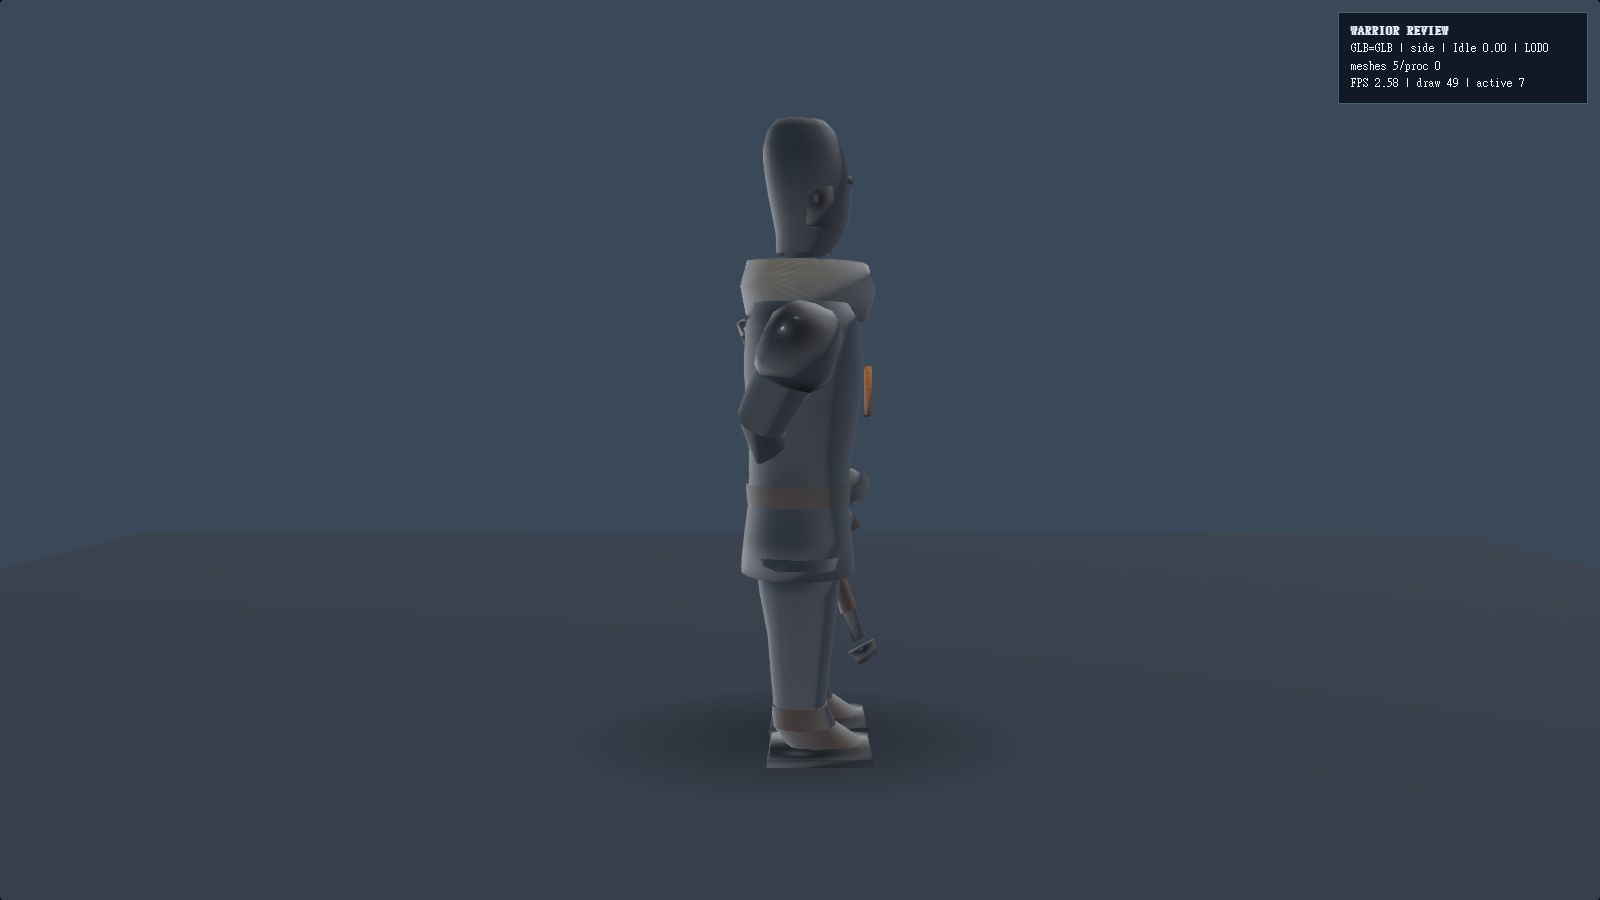
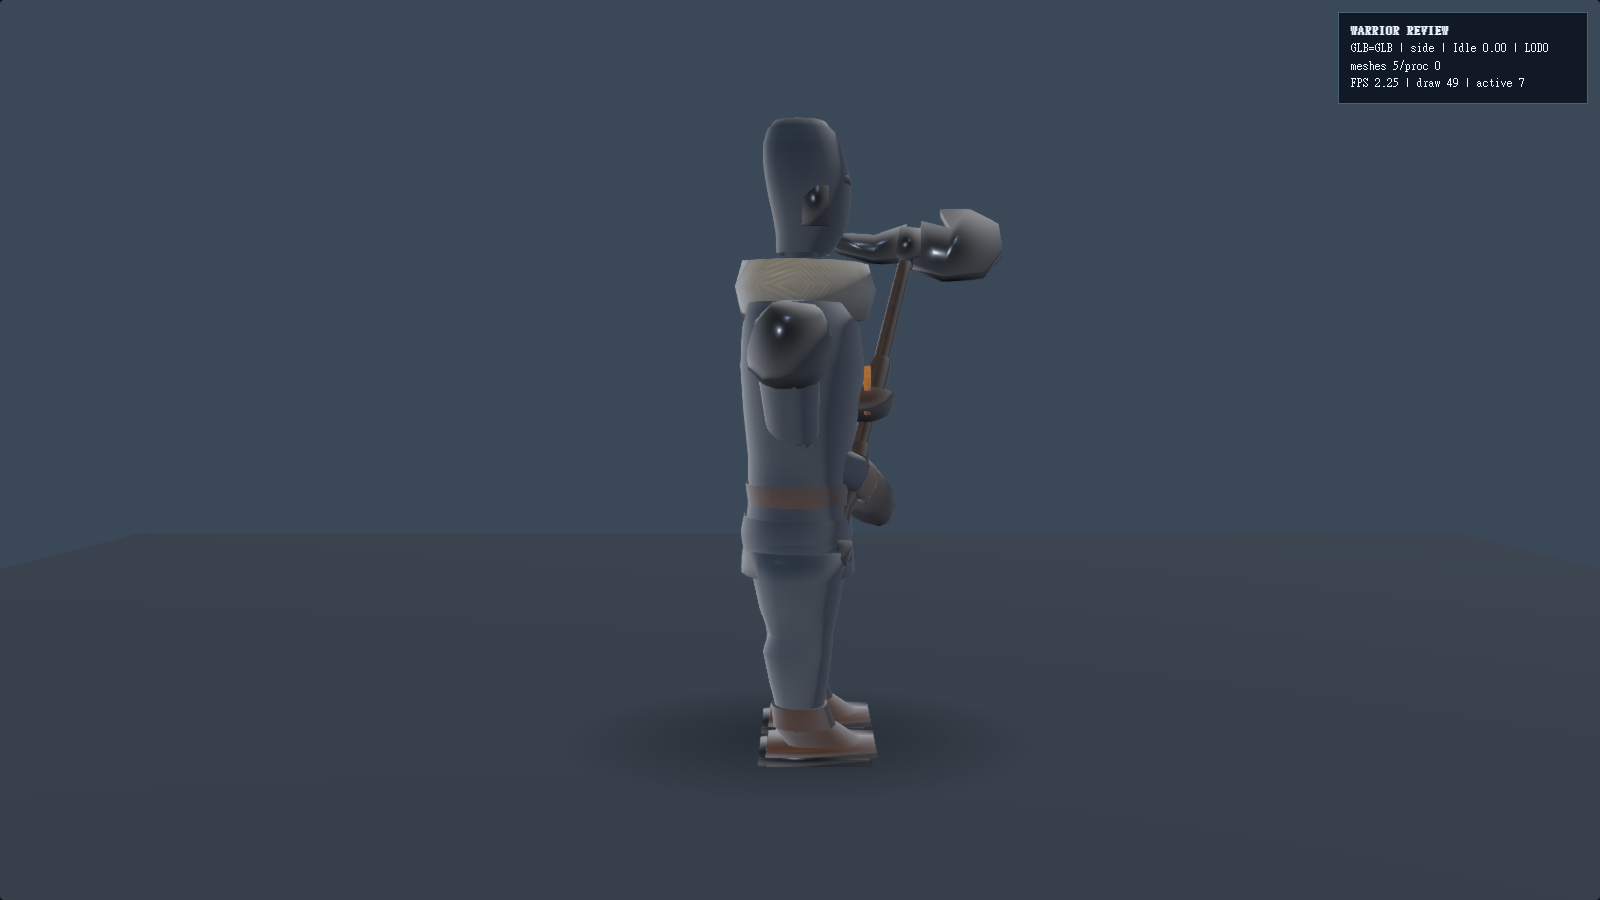
test(warrior): assert the grip at real locators, not a bounding box
The old two-hand assertion measured each hand to the axe's bounding-box
*centre* with a 1.5m envelope. That is not a grip test: a bounding-box
centre cannot express 'is the hand on the handle', so it passed while
the left arm was flung out to the side 1.41m off the haft. No threshold
on that metric would have caught it.

The GLB now exports upper_grip, lower_grip and axe_tip as locator nodes
bone-parented to hand.R, so they travel with the rigid weapon:

- hand.R -> upper_grip < 0.005m. This is a rigidity check, not a pose
  check: the upper grip is authored to coincide with hand.R's bind
  position and the axe is skinned 100% to that bone, so drift here means
  the weapon stopped being rigid.
- hand.L -> lower_grip < 0.12m for every required clip. This is the
  assertion that carries information about the pose. Death is exempt
  past normalized 0.4, where it deliberately releases the haft.
- grip spacing held to 0.37-0.42m through the swing, which is what
  proves the haft is rigid rather than the two locators drifting apart.
- swing arc measured at axe_tip -- the part that actually lands -- and
  required to exceed 1.5m. Authored key-to-key travel is 2.4m.

The locators are also required nodes in validate-warrior-production.mjs
and AssetManifest, and the validator additionally checks each one is
parented to hand.R: a locator on the wrong bone describes a weapon that
is not the one being rendered, which would silently invalidate every
measurement taken against it.
[…]

diff --git a/tests/warrior-runtime.spec.ts b/tests/warrior-runtime.spec.ts
@@ -8,6 +8,9 @@ type Lod = 0 | 1 | 2;
 type BoneTransform = { position: [number, number, number]; rotation: [number, number, number, number] };
 interface WeaponTransform {
   socket: BoneTransform | null;
+  upperGrip: [number, number, number] | null;
+  lowerGrip: [number, number, number] | null;
+  axeTip: [number, number, number] | null;
   axeWorldCenter: [number, number, number] | null;
   axeWorldExtents: [number, number, number] | null;
   handContactL: number | null;
@@ -197,23 +200,63 @@ test("verifies Warrior GLB review mode and normalized animation evidence", async
   );
   expect(swingArmDelta, "the swinging arm (upper_arm.R/lower_arm.R) must rotate visibly across the MeleeAttack swing").toBeGreaterThan(0.01);
 
-  // Hand-to-handle contact: both hands must stay within a generous grip
-  // envelope of the axe's (skeleton-applied) bounding-box centre. This is a
-  // coarse proxy -- the axe mesh has no separate upper/lower grip locator yet
-  // (that is Warrior-W2 asset work, tracked separately) -- not a precise
-  // per-grip measurement.
-  const HAND_CONTACT_LIMIT = 1.5;
+  // --- two-hand grip, measured at the real grip points -------------------
+  // Distances are hand bone -> the `lower_grip` / `upper_grip` locator nodes
+  // the GLB exports bone-parented to hand.R. The earlier version measured to
+  // the axe's bounding-box *centre* with a 1.5m envelope, which is why it
+  // passed while the left arm was flung out to the side, a full 1.4m off the
+  // haft and plainly wrong on screen. A bounding-box centre cannot express
+  // "is the hand on the handle", so no threshold on it would have helped.
+  //
+  // hand.R is a rigidity check, not a pose check: the upper grip is authored
+  // to coincide with hand.R's bind position and the whole axe is skinned
+  // 100% to that bone, so any drift means the weapon stopped being rigid.
+  const RIGID_TOLERANCE = 0.005;
+  // hand.L is the real pose assertion. Keys solve to 0; the allowance covers
+  // interpolation between keyframes (worst observed mid-key error 0.032m).
+  const GRIP_TOLERANCE = 0.12;
+  // Death deliberately releases the haft as the body collapses, so only the
+  // part of that clip before the fall is required to hold the grip.
+  const gripHeld = (animation: Animation, normalized: number): boolean =>
+    animation !== "Death" || normalized <= 0.4;
+
   const handContactSamples: Array<{ animation: Animation; normalized: number; handContactL: number | null; handContactR: number | null }> = [];
   for (const animation of requiredPoseAnimations) {
     for (const { normalized, state } of animationSamples[animation]) {
-      const { handContactL, handContactR } = state.weaponTransform;
+      const { handContactL, handContactR, upperGrip, lowerGrip } = state.weaponTransform;
       handContactSamples.push({ animation, normalized, handContactL, handContactR });
-      expect(handContactR, `${animation}@${normalized} hand.R contact distance must be measurable`).not.toBeNull();
-      expect(handContactL, `${animation}@${normalized} hand.L contact distance must be measurable`).not.toBeNull();
-      expect(handContactR ?? Infinity, `${animation}@${normalized} hand.R too far from the axe`).toBeLessThan(HAND_CONTACT_LIMIT);
-      expect(handContactL ?? Infinity, `${animation}@${normalized} hand.L too far from the axe`).toBeLessThan(HAND_CONTACT_LIMIT);
+      expect(upperGrip, `${animation}@${normalized} upper_grip locator must exist`).not.toBeNull();
+      expect(lowerGrip, `${animation}@${normalized} lower_grip locator must exist`).not.toBeNull();
+      expect(handContactR ?? Infinity, `${animation}@${normalized} axe is no longer rigid to hand.R`).toBeLessThan(RIGID_TOLERANCE);
+      if (gripHeld(animation, normalized)) {
+        expect(handContactL ?? Infinity, `${animation}@${normalized} hand.L is not on the lower grip`).toBeLessThan(GRIP_TOLERANCE);
+      }
     }
   }
+  // The two grips must stay a fixed distance apart: that is what proves the
+  // haft is rigid rather than the locators drifting independently.
+  for (const { state } of animationSamples.MeleeAttack) {
+    const { upperGrip, lowerGrip } = state.weaponTransform;
+    if (!upperGrip || !lowerGrip) continue;
+    const spacing = Math.hypot(upperGrip[0] - lowerGrip[0], upperGrip[1] - lowerGrip[1], upperGrip[2] - lowerGrip[2]);
+    expect(spacing, "grip spacing must stay rigid through the swing").toBeGreaterThan(0.37);
+    expect(spacing, "grip spacing must stay rigid through the swing").toBeLessThan(0.42);
+  }
+
+  // --- swing arc, measured at the cutting edge ---------------------------
+  const meleeTips = animationSamples.MeleeAttack
+    .map(({ state }) => state.weaponTransform.axeTip)
+    .filter((tip): tip is [number, number, number] => tip !== null);
+  expect(meleeTips.length, "axe_tip locator must be sampled across MeleeAttack").toBe(6);
+  let bladeTipArc = 0;
+  for (const a of meleeTips) {
+    for (const b of meleeTips) {
+      bladeTipArc = Math.max(bladeTipArc, Math.hypot(a[0] - b[0], a[1] - b[1], a[2] - b[2]));
+    }
+  }
+  // Authored wind-up to impact travel is ~2.4m at the keys; sampling on the
+  // normalized grid sees ~2.0m. A weak or absent swing collapses this.
+  expect(bladeTipArc, "the blade tip must travel a readable arc through the swing").toBeGreaterThan(1.5);
 
   // Death final pose: the silhouette must have visibly collapsed relative to
   // standing Idle while staying anchored near the same ground line. The

diff --git a/src/character/CharacterFactory.ts b/src/character/CharacterFactory.ts
@@ -158,14 +158,36 @@ export class CharacterAvatar {
    * a coarse proxy (the axe currently has no separate upper/lower grip
    * locator), not a precise per-grip measurement.
    */
+  /**
+   * Locator-based weapon evidence.
+   *
+   * The authored GLB exports `upper_grip`, `lower_grip` and `axe_tip` as
+   * nodes bone-parented to `hand.R`, so they travel with the rigid weapon.
+   * Grip contact is therefore measured hand-bone to actual grip point, and
+   * the swing arc is measured at the cutting edge. The previous version
+   * measured to the axe's bounding-box *centre*, which is why its numbers
+   * could look acceptable while the left hand was nowhere near the haft.
+   *
+   * `handContactR` is expected to be ~0 by construction: the upper grip is
+   * authored to coincide with hand.R's bind position and the whole axe is
+   * skinned 100% to that bone, so the right-hand contact is a rigidity
+   * check, not an animation check. `handContactL` is the number that
+   * actually carries information about the pose.
+   */
   get reviewWeaponEvidence(): {
     socket: { position: [number, number, number]; rotation: [number, number, number, number] } | null;
+    upperGrip: [number, number, number] | null;
+    lowerGrip: [number, number, number] | null;
+    axeTip: [number, number, number] | null;
     axeWorldCenter: [number, number, number] | null;
     axeWorldExtents: [number, number, number] | null;
     handContactL: number | null;
     handContactR: number | null;
   } {
-    const empty = { socket: null, axeWorldCenter: null, axeWorldExtents: null, handContactL: null, handContactR: null };
+    const empty = {
+      socket: null, upperGrip: null, lowerGrip: null, axeTip: null,
+      axeWorldCenter: null, axeWorldExtents: null, handContactL: null, handContactR: null,
+    };
     if (!this.authored) return empty;
     const stripped = (name: string) => name.split(":").pop() ?? name;
     const socketNode = this.authored.nodes.find((node) => stripped(node.name) === "weapon_socket") as TransformNode | undefined;
@@ -189,8 +211,6 @@ export class CharacterAvatar {
     }) as AbstractMesh[];
     let axeWorldCenter: [number, number, number] | null = null;
     let axeWorldExtents: [number, number, number] | null = null;
-    let handContactL: number | null = null;
-    let handContactR: number | null = null;
     if (axeMeshes.length > 0) {
       let min: Vector3 | null = null;
       let max: Vector3 | null = null;
@@ -204,17 +224,41 @@ export class CharacterAvatar {
       const extents = max!.subtract(min!).scale(0.5);
       axeWorldCenter = [roundReview(center.x), roundReview(center.y), roundReview(center.z)];
       axeWorldExtents = [roundReview(extents.x), roundReview(extents.y), roundReview(extents.z)];
-      const skeleton = this.authored.skeletons?.[0];
-      const referenceMesh = this.authoredMeshes.find((mesh) => (mesh as AbstractMesh).skeleton === skeleton) as AbstractMesh | undefined;
-      if (skeleton && referenceMesh) {
-        const handL = skeleton.bones.find((bone) => stripped(bone.name) === "hand.L");
-        const handR = skeleton.bones.find((bone) => stripped(bone.name) === "hand.R");
-        const contactPoint = Vector3.FromArray(axeWorldCenter);
-        if (handL) handContactL = roundReview(Vector3.Distance(handL.getAbsolutePosition(referenceMesh), contactPoint));
-        if (handR) handContactR = roundReview(Vector3.Distance(handR.getAbsolutePosition(referenceMesh), contactPoint));
-      }
     }
-    return { socket, axeWorldCenter, axeWorldExtents, handContactL, handContactR };
+
+    const locator = (name: string): Vector3 | null => {
+      const node = this.authored?.nodes.find((candidate) => stripped(candidate.name) === name) as TransformNode | undefined;
+      if (!node) return null;
+      node.computeWorldMatrix(true);
+      return node.getAbsolutePosition();
+    };
+    const upper = locator("upper_grip");
+    const lower = locator("lower_grip");
+    const tip = locator("axe_tip");
+
+    let handContactL: number | null = null;
+    let handContactR: number | null = null;
+    const skeleton = this.authored.skeletons?.[0];
+    const referenceMesh = this.authoredMeshes.find((mesh) => (mesh as AbstractMesh).skeleton === skeleton) as AbstractMesh | undefined;
+    if (skeleton && referenceMesh) {
+      const handL = skeleton.bones.find((bone) => stripped(bone.name) === "hand.L");
+      const handR = skeleton.bones.find((bone) => stripped(bone.name) === "hand.R");
+      if (handL && lower) handContactL = roundReview(Vector3.Distance(handL.getAbsolutePosition(referenceMesh), lower));
+      if (handR && upper) handContactR = roundReview(Vector3.Distance(handR.getAbsolutePosition(referenceMesh), upper));
+    }
+
+    const asArray = (value: Vector3 | null): [number, number, number] | null =>
+      value ? [roundReview(value.x), roundReview(value.y), roundReview(value.z)] : null;
+    return {
+      socket,
+      upperGrip: asArray(upper),
+      lowerGrip: asArray(lower),
+      axeTip: asArray(tip),
+      axeWorldCenter,
+      axeWorldExtents,
+      handContactL,
+      handContactR,
+    };
   }
 
   /** Replaces only the visible body; movement/collision still use the rig root. */

diff --git a/src/assets/AssetManifest.ts b/src/assets/AssetManifest.ts
@@ -43,7 +43,9 @@ export const AUTHORED_ASSET_MANIFEST: readonly AssetSpec[] = [
     key,
     rootUrl: "/assets/models/characters/",
     fileName: `${key}.glb`,
-    requiredNodes: ["UnitRoot", "UnitSkeleton", "weapon_socket", "attackAnchor", "LOD1", "LOD2"],
+    requiredNodes: key === "warrior"
+      ? ["UnitRoot", "UnitSkeleton", "weapon_socket", "attackAnchor", "LOD1", "LOD2", "upper_grip", "lower_grip", "axe_tip"]
+      : ["UnitRoot", "UnitSkeleton", "weapon_socket", "attackAnchor", "LOD1", "LOD2"],
     requiredAnimations: key === "warrior" ? ALLY_MELEE_ANIMATIONS : ["Idle", "Walk", "Attack", "Cast", "Hit", "Death"],
     fallback: "procedural",
   })),

diff --git a/src/warrior/WarriorReviewMode.ts b/src/warrior/WarriorReviewMode.ts
@@ -40,6 +40,9 @@ export interface WarriorReviewCapture {
   boneTransforms: Record<string, { position: [number, number, number]; rotation: [number, number, number, number] }>;
   weaponTransform: {
     socket: { position: [number, number, number]; rotation: [number, number, number, number] } | null;
+    upperGrip: [number, number, number] | null;
+    lowerGrip: [number, number, number] | null;
+    axeTip: [number, number, number] | null;
     axeWorldCenter: [number, number, number] | null;
     axeWorldExtents: [number, number, number] | null;
     handContactL: number | null;
